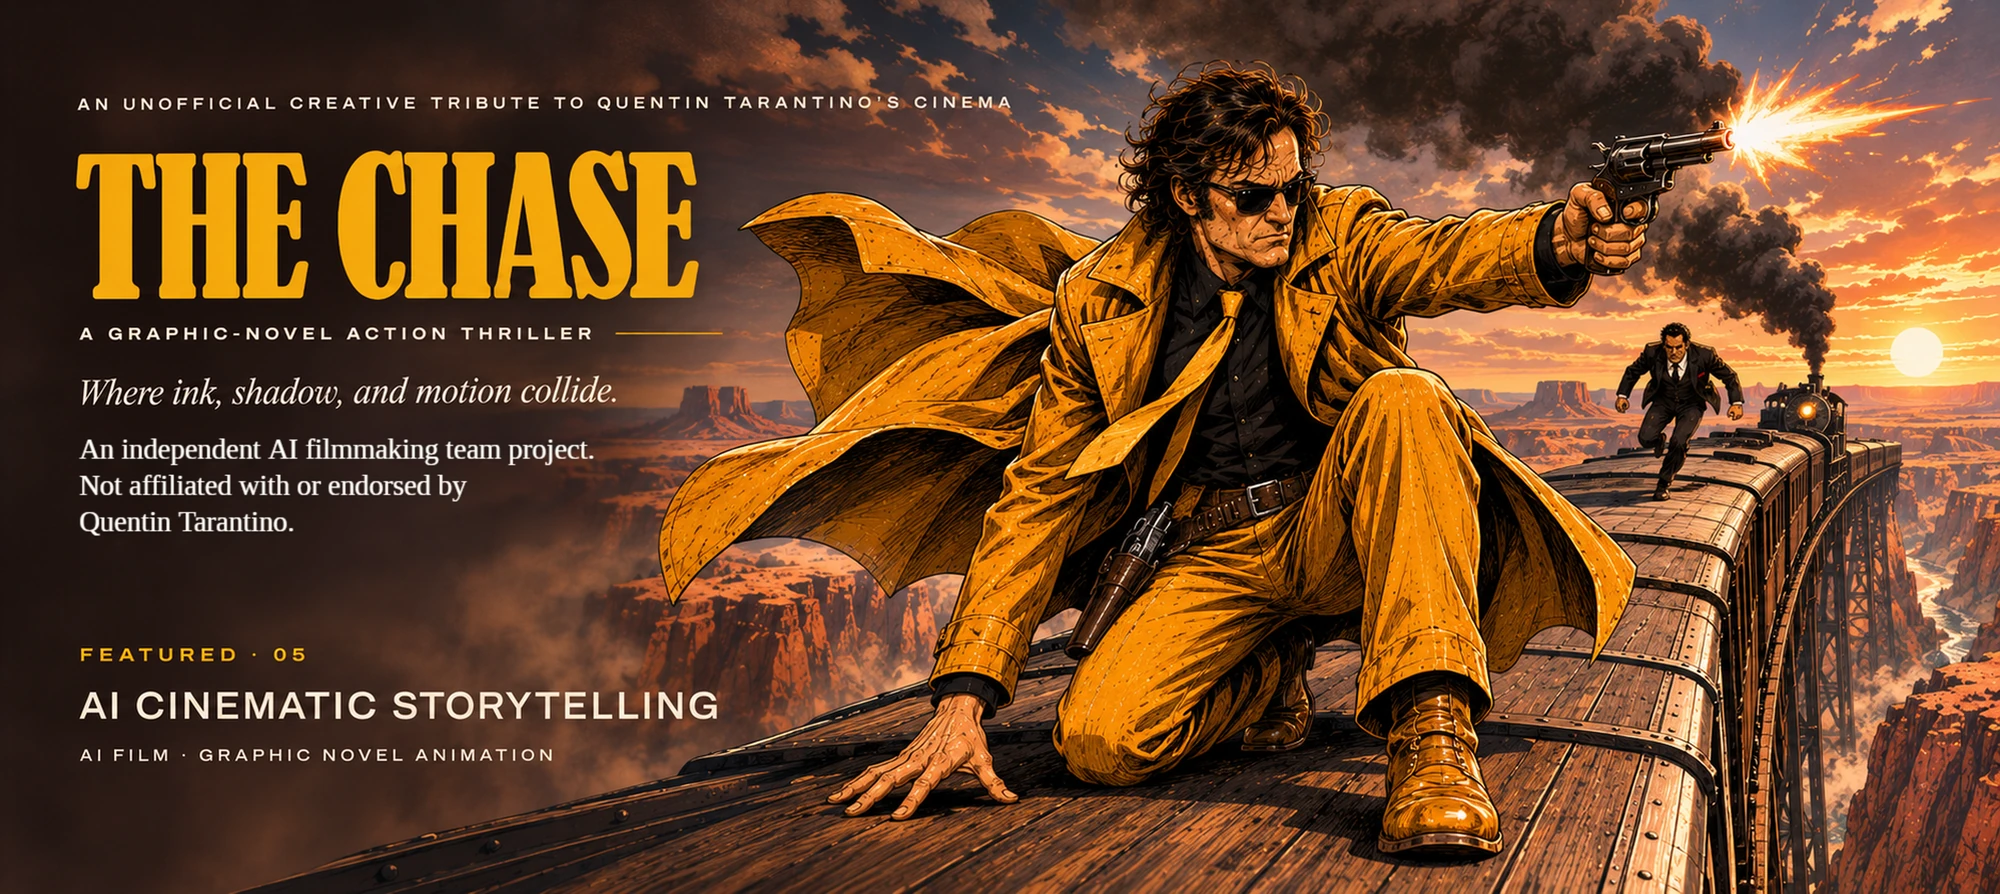
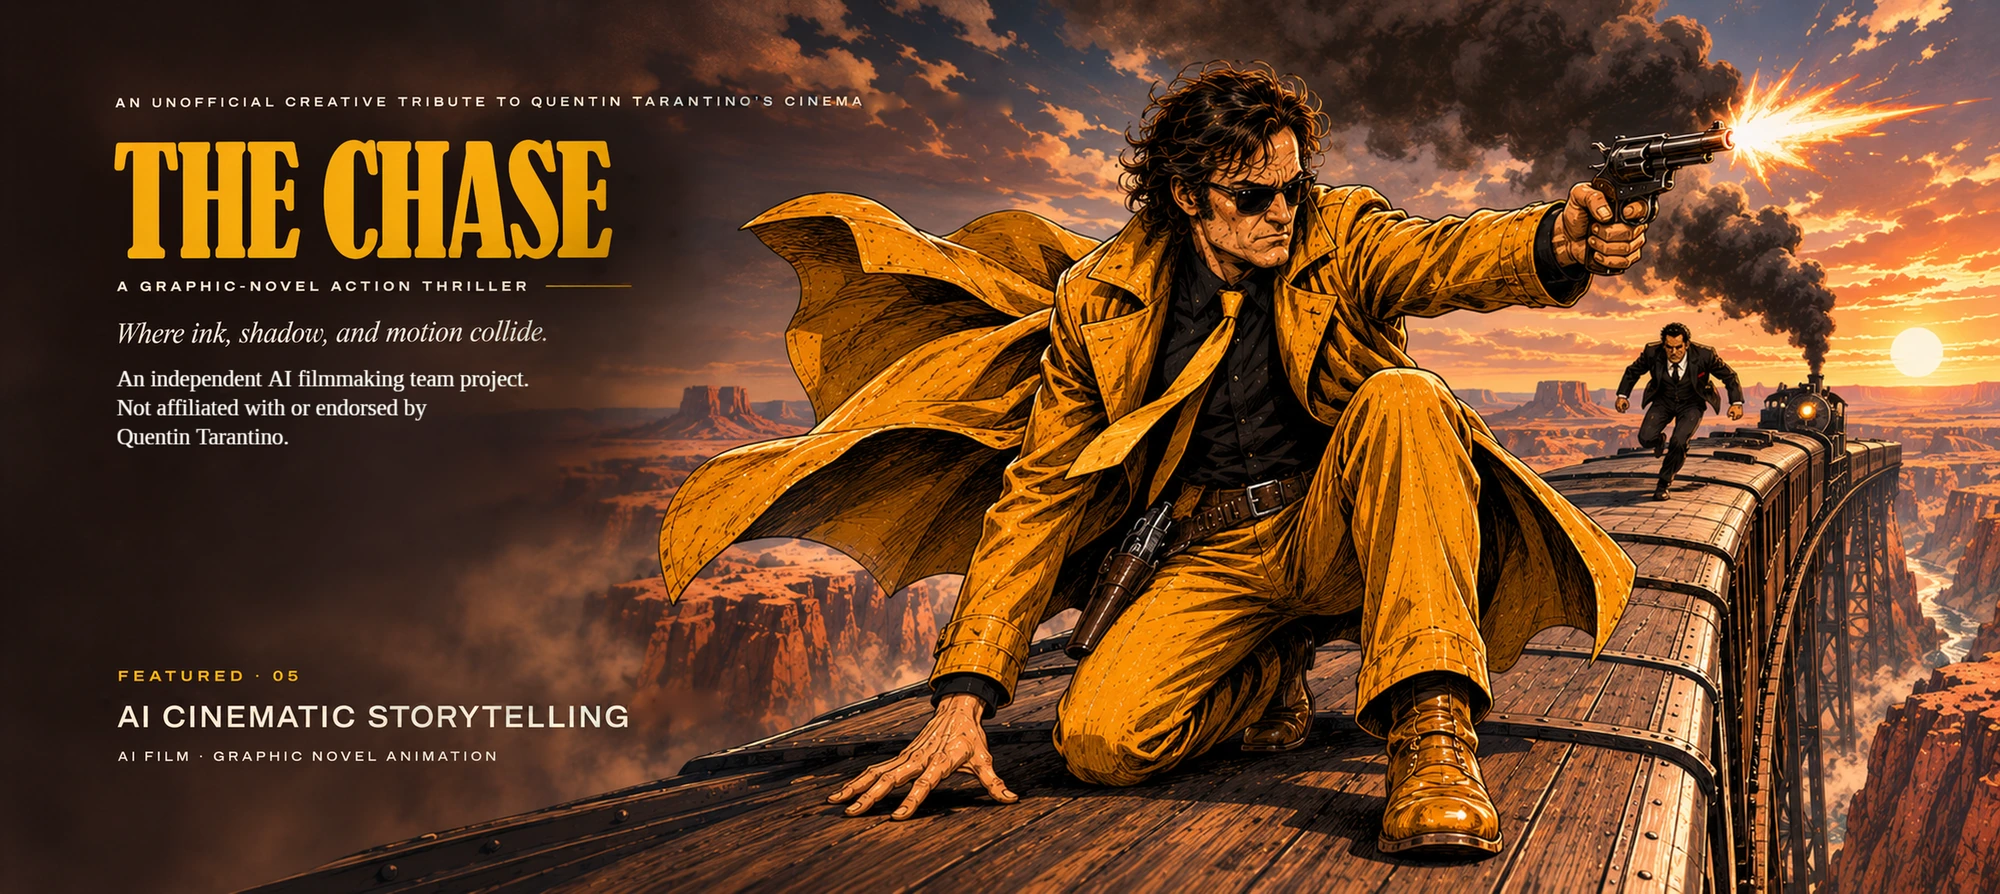
Home: type 20% smaller, wider left margins, H07 title larger, Games panels closer (no rule), hero right margin; Contribution: section headings 20% smaller

diff --git a/modules/contribution/contribution.css b/modules/contribution/contribution.css
@@ -202,6 +202,10 @@ html.motion .acc-item:nth-child(2) { transition-delay: 0.08s; } html.motion .acc
 .acc-title { font-family: var(--font); font-weight: 400; font-size: clamp(32px, 4.3vw, 64px); line-height: 1.05; letter-spacing: -0.004em; overflow-wrap: anywhere; transition: color 0.3s; }
 .acc-sub { font-size: clamp(14px, 1.25vw, 19px); letter-spacing: 0.04em; color: var(--muted); }
 .acc-trigger:hover .acc-title { color: #3b2a25; }
+/* 2026-11-24: the 01 · 02 · 03 heading rows 20 % smaller (number, title, subtitle; the + button unchanged) */
+.acc-num { font-size: clamp(12px, 1.08vw, 16.8px); }
+.acc-title { font-size: clamp(25.6px, 3.44vw, 51.2px); }
+.acc-sub { font-size: clamp(11.2px, 1vw, 15.2px); }
 .acc-icon { position: relative; flex: none; width: clamp(44px, 4vw, 56px); height: clamp(44px, 4vw, 56px); border: 1px solid var(--rule-strong); border-radius: 50%;
   transition: background-color 0.25s, border-color 0.25s, color 0.25s; }
 .acc-icon span { position: absolute; top: 50%; left: 50%; width: 16px; height: 1.4px; margin: -0.7px 0 0 -8px; background: currentColor; transition: transform var(--dur) var(--ease), opacity var(--dur); }
@@ -442,7 +446,7 @@ html.viewer-open { overflow: hidden; }
   .main-top { height: 42px; gap: 10px; padding: 0 20px 0 16px; margin-block: -12px; }
   .hero-title { font-size: clamp(40px, 11.5vw, 56px); }
   .acc-trigger { grid-template-columns: 30px 1fr auto; gap: 12px; }
-  .acc-num { font-size: 13px; letter-spacing: 0.1em; }
+  .acc-num { font-size: 10.4px; letter-spacing: 0.1em; } /* 2026-11-24: 20 % smaller (was 13px) */
   .acc-text { padding-left: 14px; }
   .main-float { height: 42px; padding: 0 18px 0 14px; }
   .scroll-cue { height: 42px; padding: 0 16px; }

diff --git a/assets/home.css b/assets/home.css
@@ -215,8 +215,9 @@ a.card[href]:focus-visible { outline: 2px solid var(--ink); outline-offset: -6px
     linear-gradient(rgba(255, 240, 232, 0.10), rgba(255, 240, 232, 0.10));
 }
 .hero-type { position: absolute; z-index: 1; height: auto; pointer-events: none; }
-.hero-type--left { left: 3.646vw; bottom: 3.021vw; width: 35.94vw; }
-.hero-type--right { right: 3.516vw; bottom: 3.151vw; width: 32.94vw; }
+/* 2026-11-24: the H01 type 20 % smaller (left 35.94 → 28.75vw, right 32.94 → 26.35vw), same corners */
+.hero-type--left { left: 3.646vw; bottom: 3.021vw; width: 28.75vw; }
+.hero-type--right { right: 5.977vw; bottom: 3.151vw; width: 26.35vw; }   /* 2026-11-24: right margin x 1.7 (was 3.516vw) */
 .hero-type--badge { right: 3.776vw; top: calc(var(--header-h) + 56px); width: 9.115vw; }   /* below the FOR BW/S button (was top: 2.734vw, its H01 place) */
 @media (min-aspect-ratio: 4/3) {
   .hero .card--layered { aspect-ratio: auto; height: max(100svh, 44.7vw); }
